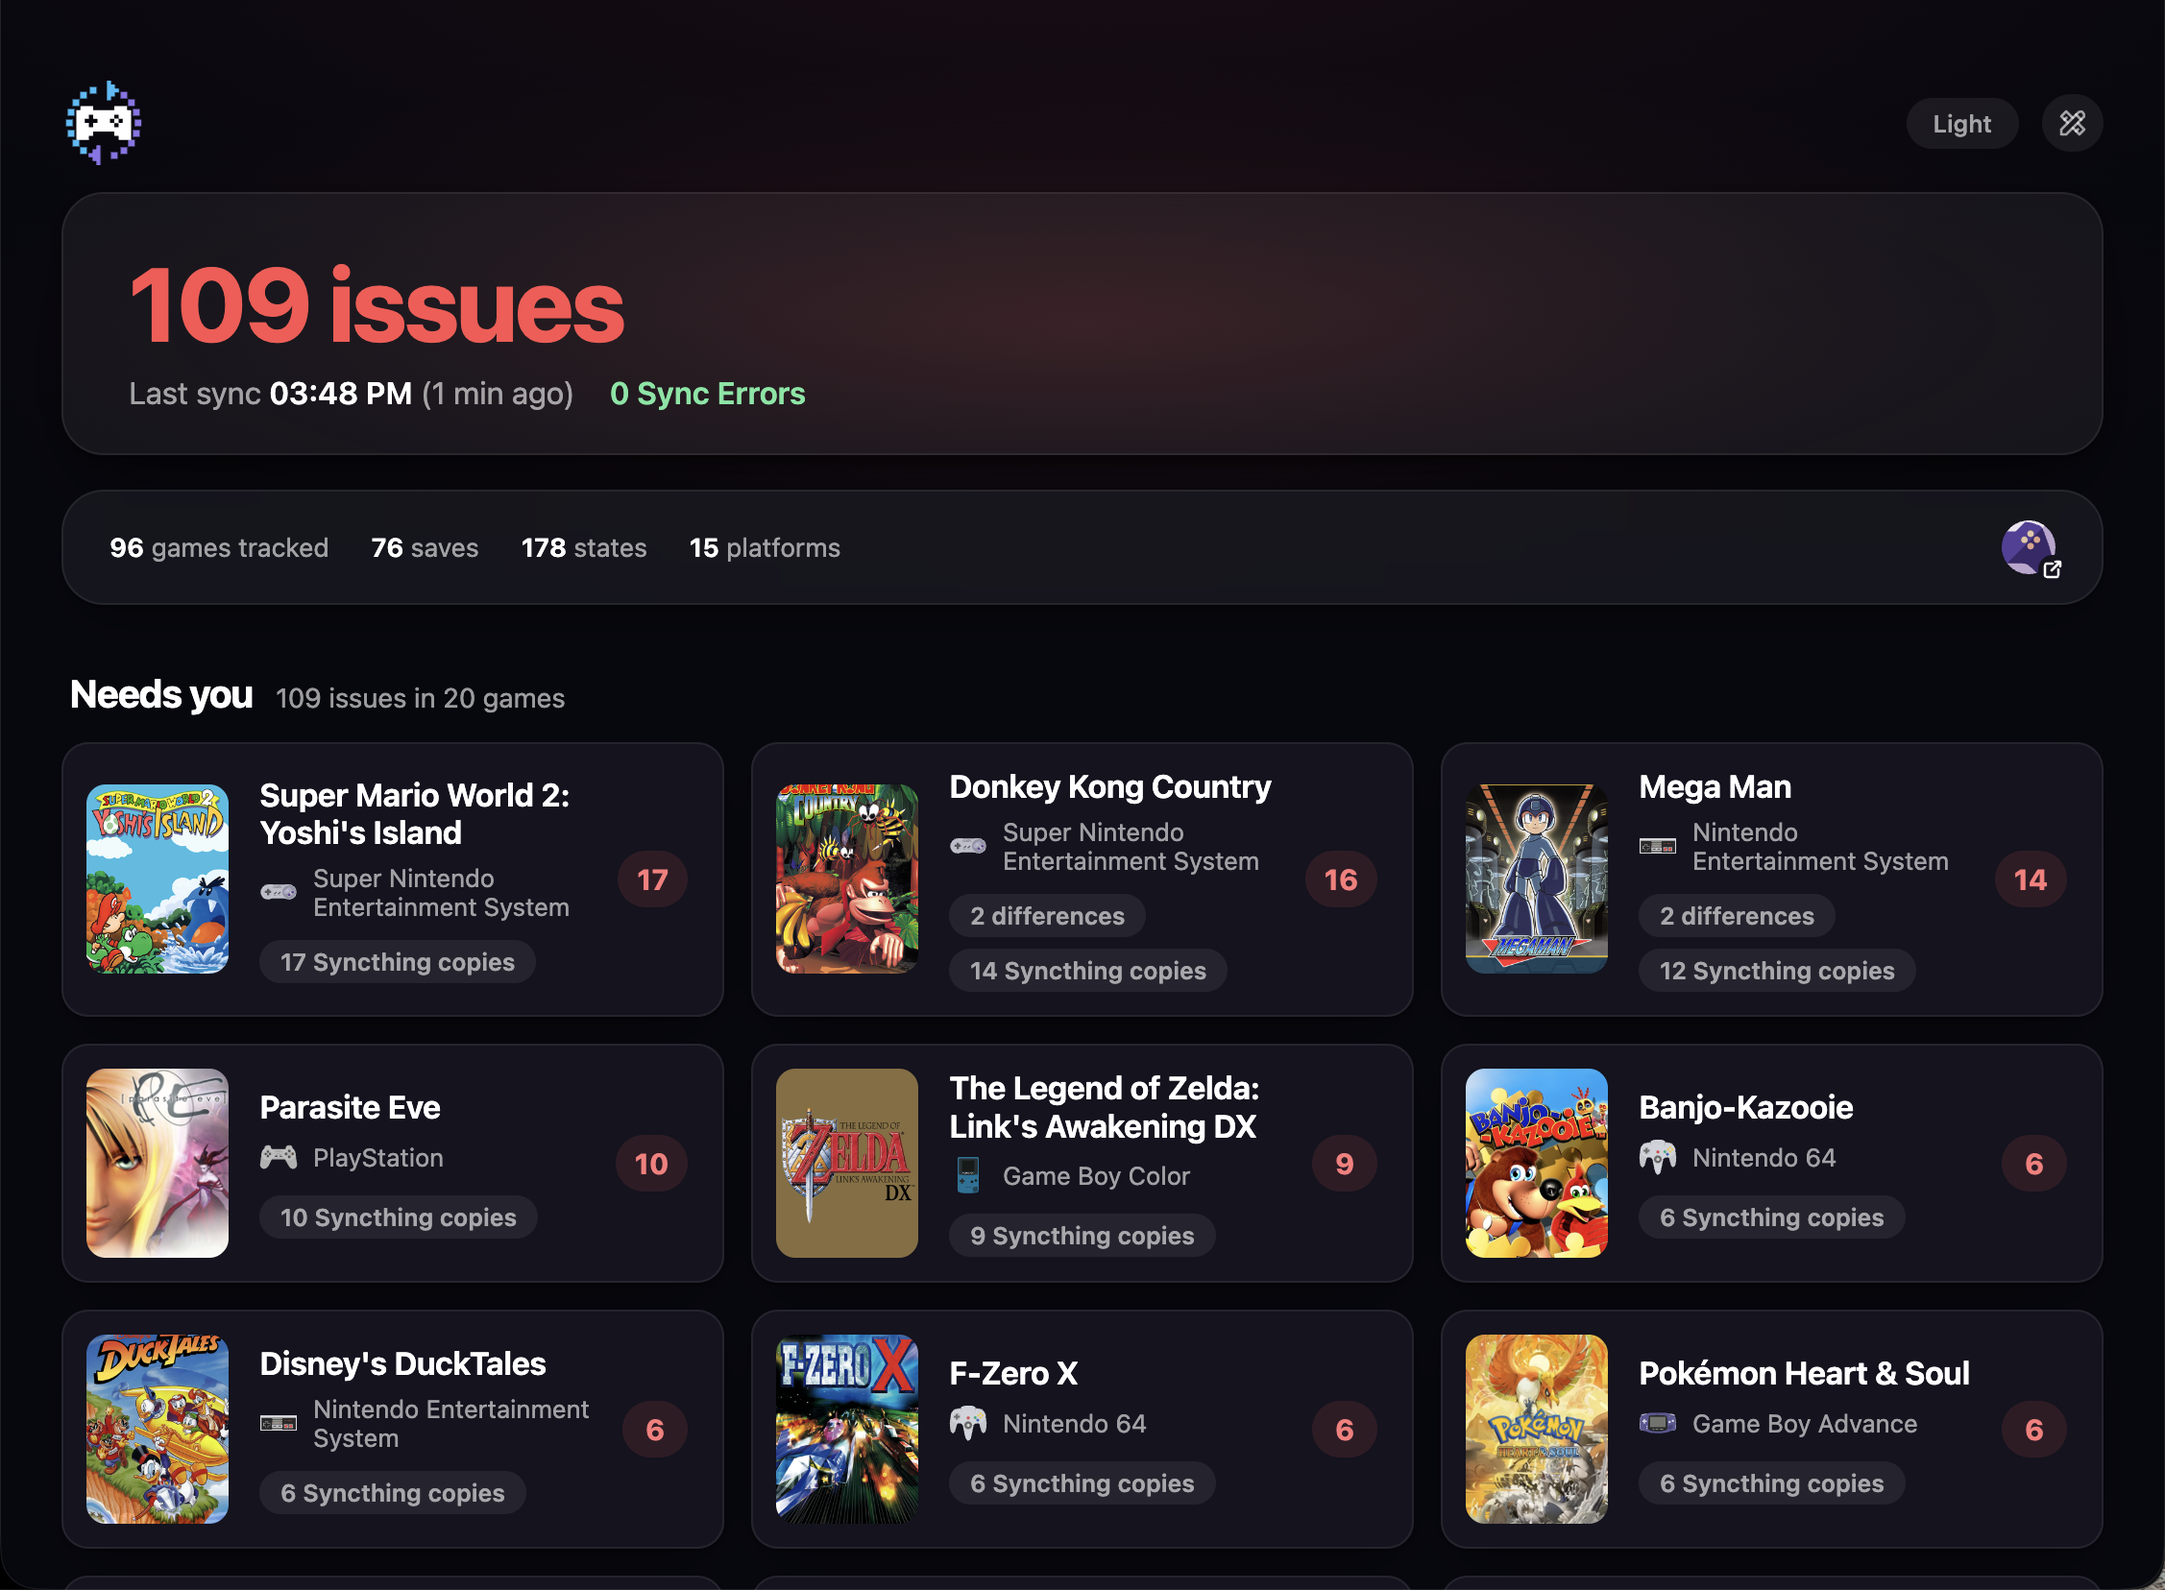
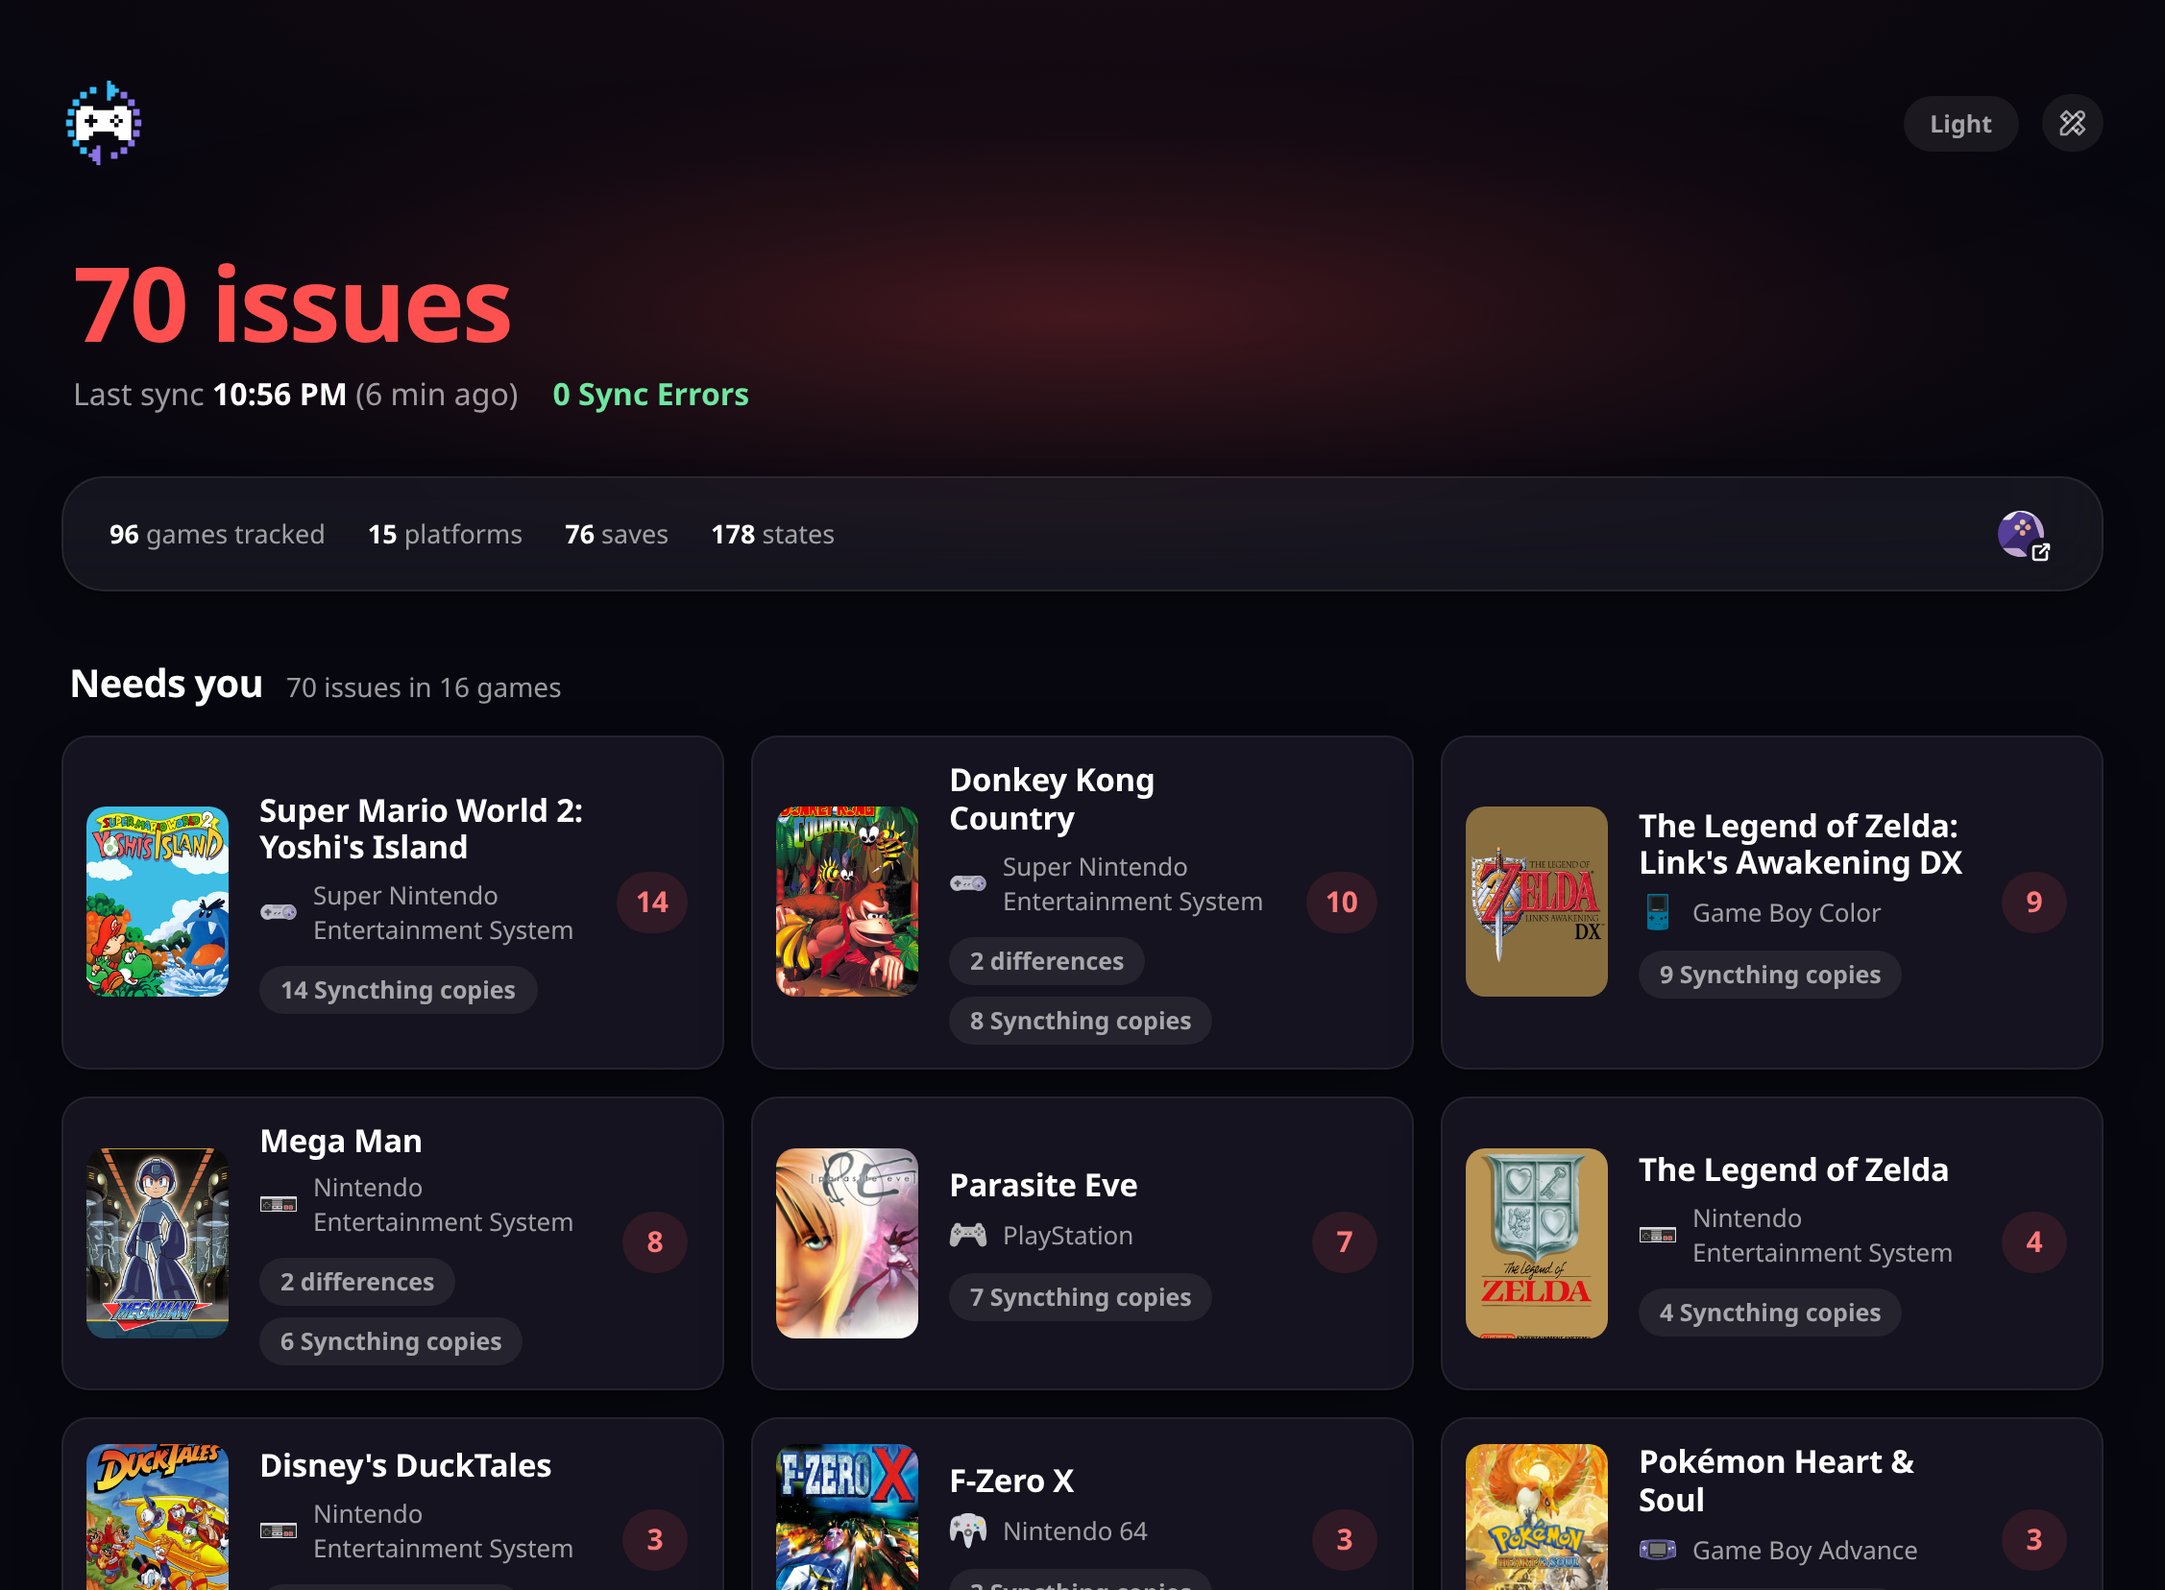
feat: mobile UI polish and content spacing improvements (2.3.1) (#21)

diff --git a/src/webui_static/styles.css b/src/webui_static/styles.css
@@ -1,6 +1,6 @@
-/* AmnServ: romm_sync — house tokens (vitals/brew) plus a RomM violet for the server side */
+/* Web UI styles. Theme tokens (dark and light) first, then layout and components. RomM violet marks RomM-side elements. */
+/* Colors follow RomM's palette (frontend/src/styles/tokens.css in rommapp/romm). */
 
-/* RomM's palette (frontend/src/styles/tokens.css) on the house glass/flat shapes */
 :root {
   --bg: #f5f5fa;
   --surface: rgba(255, 255, 255, 0.66);
@@ -160,7 +160,7 @@ button { font-family: var(--font-ui); }
   position: relative; margin-bottom: 34px;
 }
 .hero::before {
-  content: ""; position: absolute; inset: -70px -100px; pointer-events: none; opacity: 0.55;
+  content: ""; position: absolute; inset: -70px -100px; pointer-events: none; opacity: 0.8;
   /* fades to nothing inside the box (the ellipse radii equal half its size), so no edge shows and no blur filter is needed */
   background: radial-gradient(ellipse 50% 50% at 50% 50%, var(--halo) 0%, color-mix(in srgb, var(--halo) 45%, transparent) 40%,
     color-mix(in srgb, var(--halo) 12%, transparent) 72%, transparent 100%);
@@ -168,9 +168,8 @@ button { font-family: var(--font-ui); }
 .hero.ok { --halo: var(--ok-halo); --tone: var(--ok-deep); }
 .hero.critical { --halo: var(--crit-halo); --tone: var(--crit); }
 .hero-card {
-  position: relative; background: var(--surface);  /* translucent so the halo behind still tints it; no blur needed on a smooth gradient */
-  border: 1px solid var(--hairline); border-radius: 22px; box-shadow: var(--shadow-raised);
-  padding: 30px 34px 22px;
+  position: relative;  /* no card: text on the halo, so nothing about it reads as clickable */
+  padding: 30px 6px 14px;
 }
 .hero h1 {
   font-size: clamp(32px, 4.8vw, 54px); font-weight: 750; letter-spacing: -0.025em; line-height: 1;
@@ -181,6 +180,10 @@ button { font-family: var(--font-ui); }
 .hero-sub .errors-ok { color: var(--ok-deep); font-weight: 600; }
 .hero-sub strong { color: var(--text); font-weight: 600; }
 .hero-toggle { margin-top: 18px; }
+.hero-toggle > summary { list-style: none; width: fit-content; }
+.hero-toggle > summary::-webkit-details-marker { display: none; }
+.hero-toggle .chev { font-size: 11px; transition: transform 0.2s ease; }
+.hero-toggle[open] .chev { transform: rotate(90deg); }
 .hero-files { list-style: none; margin-top: 12px; display: grid; gap: 4px; }
 .hero-files li {
   display: flex; gap: 12px; align-items: center; padding: 9px 14px; border-radius: 12px;
@@ -365,6 +368,7 @@ details.sub > summary { font-weight: 550; font-size: 14px; padding: 7px 10px; }
 }
 .bottombar strong { color: var(--text); font-weight: 650; }
 .bar-stats { display: flex; gap: 22px; }
+.stat-line { display: contents; }  /* desktop: one row of four; the phone stacks them in two lines */
 .bar-issues, .bar-last, #bar-menu { display: none; }
 .bar-issues { font-weight: 650; text-decoration: none; }
 .bar-issues .ok { color: var(--ok); }
@@ -403,10 +407,12 @@ details.sub > summary { font-weight: 550; font-size: 14px; padding: 7px 10px; }
     will-change: transform;  /* Safari does not repaint content inserted into a sticky backdrop-filter box (the stats) until its style changes */
   }
   .bottombar.action { border-radius: 16px; box-shadow: var(--shadow-raised); }
-  .bottombar.action .romm-link img { width: 24px; height: 24px; }
+  /* icon sizes do not change as the bar docks. The RomM logo is a filled disc and the mark is open pixels, so the mark runs larger to look the same size. */
+  .bottombar .romm-link img, .bottombar.action .romm-link img { width: 24px; height: 24px; }
   #bar-menu .bar-mark { width: 32px; height: 32px; }
-  .bottombar.action .romm-link, #bar-menu .menu-toggle { width: 42px; height: 42px; }
-  #bar-menu { margin-left: -20px; margin-right: -5px; }
+  .bottombar .romm-link, .bottombar.action .romm-link, #bar-menu .menu-toggle { width: 36px; height: 36px; }
+  .bottombar .romm-link { box-sizing: border-box; justify-content: center; padding: 0; }
+  #bar-menu { margin-left: -20px; margin-right: -2px; }
 }
 .bottombar.action .bar-issues, .bottombar.action .bar-last { animation: bar-item-in 0.35s 0.08s both; }
 .bottombar.action #bar-menu { animation: bar-fade-in 0.35s 0.08s both; }
@@ -492,12 +498,12 @@ details.sub > summary { font-weight: 550; font-size: 14px; padding: 7px 10px; }
 
 /* --- phones --- */
 @media (max-width: 640px) {
-  .shell { padding: 8px 16px 110px; }
+  .shell { padding: 8px max(16px, env(safe-area-inset-right)) 110px max(16px, env(safe-area-inset-left)); }
   .topbar { flex-wrap: wrap; gap: 10px; padding: 14px 0 10px; }
   .brand-mark { width: 36px; height: 36px; }
   .topbar-right { gap: 8px; }
   .hero::before { inset: -40px -30px; }
-  .hero-card { padding: 20px; }
+  .hero-card { padding: 20px 4px 12px; }
   .hero h1 { font-size: 30px; }
   .hero-sub { font-size: 14px; }
   .conflict-card { grid-template-columns: 56px minmax(0, 1fr) auto; gap: 12px; padding: 10px 12px 10px 10px; }
@@ -508,11 +514,20 @@ details.sub > summary { font-weight: 550; font-size: 14px; padding: 7px 10px; }
   details.tree .tree-body { padding-left: 12px; }
   .file-row { gap: 8px; padding-left: 6px; padding-right: 6px; }
   .file-row .when { font-size: 11.5px; }
-  .bottombar { gap: 12px; padding: 10px 16px; font-size: 12.5px; }
-  .bar-stats { flex-wrap: wrap; gap: 2px 12px; flex: 1; min-width: 0; }
-  .bottombar.action { flex-wrap: nowrap; gap: 12px; padding: 8px 14px calc(8px + env(safe-area-inset-bottom)); }
-  .bottombar.action .bar-last { margin-right: auto; color: var(--text-dim); }
-  .bottombar.action .romm-link { margin-left: 0; }
+  /* the fixed bar sits at the screen's rounded bottom corners: the home-indicator inset tracks the corner radius, so inset the sides with it (landscape adds the notch insets) */
+  .bottombar { --bar-side: max(14px, env(safe-area-inset-left), env(safe-area-inset-right), calc(env(safe-area-inset-bottom) * 0.85)); gap: 12px; padding: 8px var(--bar-side) calc(8px + env(safe-area-inset-bottom)); font-size: 12.5px; }
+  .bar-stats { flex-direction: column; gap: 1px; flex: 1; min-width: 0; }
+  .stat-line { display: flex; gap: 12px; }
+  .stat-line .wide { display: none; }
+  .bottombar #bar-menu { display: block; margin: 0; }  /* both icons are on the bar from the first paint */
+  .bottombar.action #bar-menu { animation: none; }  /* already on the bar, so docking must not fade it in again */
+  .bottombar.action { flex-wrap: nowrap; gap: 12px; padding: 8px var(--bar-side) calc(8px + env(safe-area-inset-bottom)); }
+  .bottombar.action .bar-last { display: none; }  /* the age of the last sync is not worth the room on a phone */
+  .bottombar.action .bar-issues { margin-right: auto; }
+  /* icon sizes are the same at rest and docked (the mark runs larger because the RomM logo is a filled disc): 44px boxes are the minimum comfortable touch target */
+  .bottombar .romm-link, .bottombar.action .romm-link, #bar-menu .menu-toggle { box-sizing: border-box; width: 44px; height: 44px; justify-content: center; padding: 0; border-radius: 12px; margin-left: 0; }
+  .bottombar .romm-link img, .bottombar.action .romm-link img { width: 28px; height: 28px; }
+  #bar-menu .bar-mark { width: 38px; height: 38px; }
 
   /* bottom sheet: fixed to the viewport from the header, anchored on top of the bar once it holds the button */
   .menu-panel {
@@ -524,10 +539,11 @@ details.sub > summary { font-weight: 550; font-size: 14px; padding: 7px 10px; }
     padding: 0; border: 0; border-radius: 50%; background: var(--chip-bg); color: var(--text-dim);
   }
   .menu-panel { padding-top: 42px; overscroll-behavior: contain; }
-  body.menu-open { overflow: hidden; }  /* page must not scroll under the open sheet */
+  body.menu-open, body:has(#modal-root > *) { overflow: hidden; }  /* page must not scroll under the open sheet or card */
   body.menu-open::before { content: ""; position: fixed; inset: 0; z-index: 19; background: rgba(0, 0, 0, 0.45); touch-action: none; overscroll-behavior: none; }
   .menu-panel[hidden] { display: block !important; visibility: hidden; opacity: 0; transform: translateY(32px); }
-  .scrim { padding: 10px; }
+  .scrim { padding: 10px; background: rgba(0, 0, 0, 0.6); touch-action: none; overscroll-behavior: none; }
+  .modal { touch-action: pan-y; overscroll-behavior: contain; }
   .modal { padding: 18px 16px; border-radius: 18px; }
   .modal.wide { min-height: 0; }
   .modal-head { grid-template-columns: 56px minmax(0, 1fr) auto; gap: 12px; }

diff --git a/src/webui_static/app.js b/src/webui_static/app.js
@@ -60,7 +60,7 @@ function renderHero() {
         ${state.push_only ? `<span><strong>Push-only</strong>: nothing is written to the sync folders</span>` : ""}
       </div>
       ${listed.length ? `<details class="hero-toggle">
-        <summary class="pill">${plural(listed.length, "change")}</summary>
+        <summary class="pill">${plural(listed.length, "change")}<span class="chev">▶</span></summary>
         <ul class="hero-files">
           ${listed.map(([f, dir]) => `<li>${esc(f.file_name)}${f.game ? ` <span style="color:var(--text-dim)">${esc(f.game)}</span>` : ""}<span class="dir">${dir}</span></li>`).join("")}
         </ul></details>` : ""}
@@ -228,27 +228,33 @@ function renderBottom() {
   issues.innerHTML = `<span class="${tone(count)}">${plural(count, "Issue")}</span>, <span class="${tone(syncErrors())}">${plural(syncErrors(), "Sync Error")}</span>`;
   $("#bar-last").textContent = ls ? `Last: ${ago(ls.finished_at)}` : "No sync yet";
   $("#bar-stats").innerHTML = `
-    <span><strong>${state.games.length}</strong> games tracked</span>
-    <span><strong>${files.filter((f) => f.kind === "save").length}</strong> saves</span>
-    <span><strong>${files.filter((f) => f.kind === "state").length}</strong> states</span>
-    <span><strong>${byPlatform().length}</strong> platforms</span>`;
+    <span class="stat-line"><span class="s-games"><strong>${state.games.length}</strong> games<span class="wide"> tracked</span></span>
+    <span class="s-plats"><strong>${byPlatform().length}</strong> platforms</span></span>
+    <span class="stat-line"><span class="s-saves"><strong>${files.filter((f) => f.kind === "save").length}</strong> saves</span>
+    <span class="s-states"><strong>${files.filter((f) => f.kind === "state").length}</strong> states</span></span>`;
   $("#bar-romm").href = state.romm_url;
-  $("#bar-romm img").src = asset("assets/isotipo.svg");
+  const rommIcon = $("#bar-romm img");
+  rommIcon.onerror = () => { rommIcon.onerror = null; rommIcon.src = "isotipo.svg"; };  // RomM unreachable: the bundled copy
+  rommIcon.src = asset("assets/isotipo.svg");
 }
 
 // Once the hero card has scrolled away (desktop: the sticky bar reaches the top) the bar becomes the action bar and takes over the maintenance button.
 // Only the button moves: a backdrop-filter inside the sticky/fixed bar cannot blur the page, so the panel stays outside it and is placed beside the button.
+let barHoldsButton = false, lastAction = false;
+const inBar = () => lastAction || sheetLayout.matches;  // a phone's bar always holds both icons
 function setActionBar(action) {
+  lastAction = action;
   const bar = $("#bottombar");
-  if (bar.classList.contains("action") === action) return;
+  if (bar.classList.contains("action") === action && barHoldsButton === inBar()) return;
   bar.classList.toggle("action", action);
-  if (action) $("#bar-menu").append($("#menu-toggle"));
+  barHoldsButton = inBar();
+  if (inBar()) $("#bar-menu").append($("#menu-toggle"));
   else $(".menu").prepend($("#menu-toggle"));
   placeMenuPanel();
 }
 function placeMenuPanel() {
   const panel = $("#menu-panel");
-  const docked = $("#bottombar").classList.contains("action");
+  const docked = $("#bottombar").classList.contains("action") || sheetLayout.matches;
   panel.classList.toggle("docked", docked);
   panel.removeAttribute("style");
   if (!docked) return;
@@ -600,9 +606,14 @@ $("#menu-panel").addEventListener("click", (e) => {
   }
 });
 const sheetLayout = matchMedia("(max-width: 640px)");
+sheetLayout.addEventListener("change", () => setActionBar(lastAction));
 for (const type of ["touchmove", "wheel"]) {
   document.addEventListener(type, (e) => {
-    if (sheetLayout.matches && document.body.classList.contains("menu-open") && !e.target.closest("#menu-panel")) e.preventDefault();
+    if (!sheetLayout.matches) return;
+    const card = e.target.closest?.(".modal");
+    if (card) {  // a card scrolls only when its content overflows; otherwise the swipe would drag the page behind
+      if (card.scrollHeight <= card.clientHeight) e.preventDefault();
+    } else if (($("#modal-root").firstChild || document.body.classList.contains("menu-open")) && !e.target.closest("#menu-panel")) e.preventDefault();
   }, { passive: false });
 }
 document.addEventListener("click", (e) => {

diff --git a/src/webui_static/index.html b/src/webui_static/index.html
@@ -2,9 +2,15 @@
 <html lang="en" data-theme="dark">
 <head>
   <meta charset="utf-8" />
-  <meta name="viewport" content="width=device-width, initial-scale=1" />
+  <meta name="viewport" content="width=device-width, initial-scale=1, viewport-fit=cover" />
   <title>romm_syncthing_sync</title>
   <link rel="icon" href="icon.svg" type="image/svg+xml" />
+  <link rel="apple-touch-icon" href="apple-touch-icon.png" />
+  <link rel="manifest" href="manifest.webmanifest" />
+  <meta name="theme-color" content="#07070f" />
+  <meta name="apple-mobile-web-app-capable" content="yes" />
+  <meta name="mobile-web-app-capable" content="yes" />
+  <meta name="apple-mobile-web-app-title" content="romm_sync" />
   <link rel="stylesheet" href="styles.css" />
 </head>
 <body>
